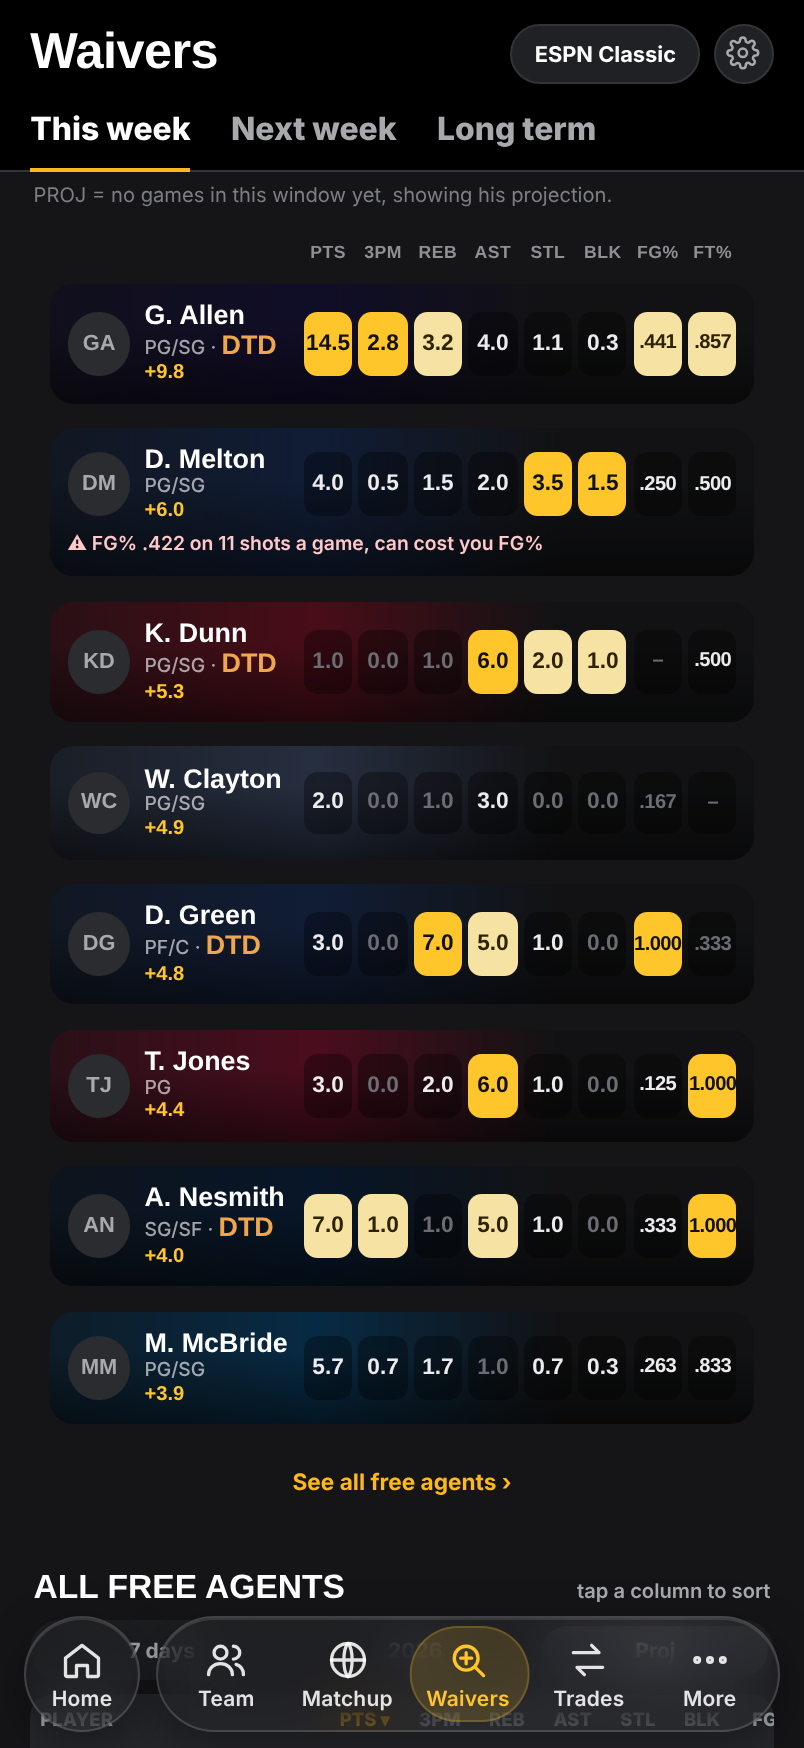
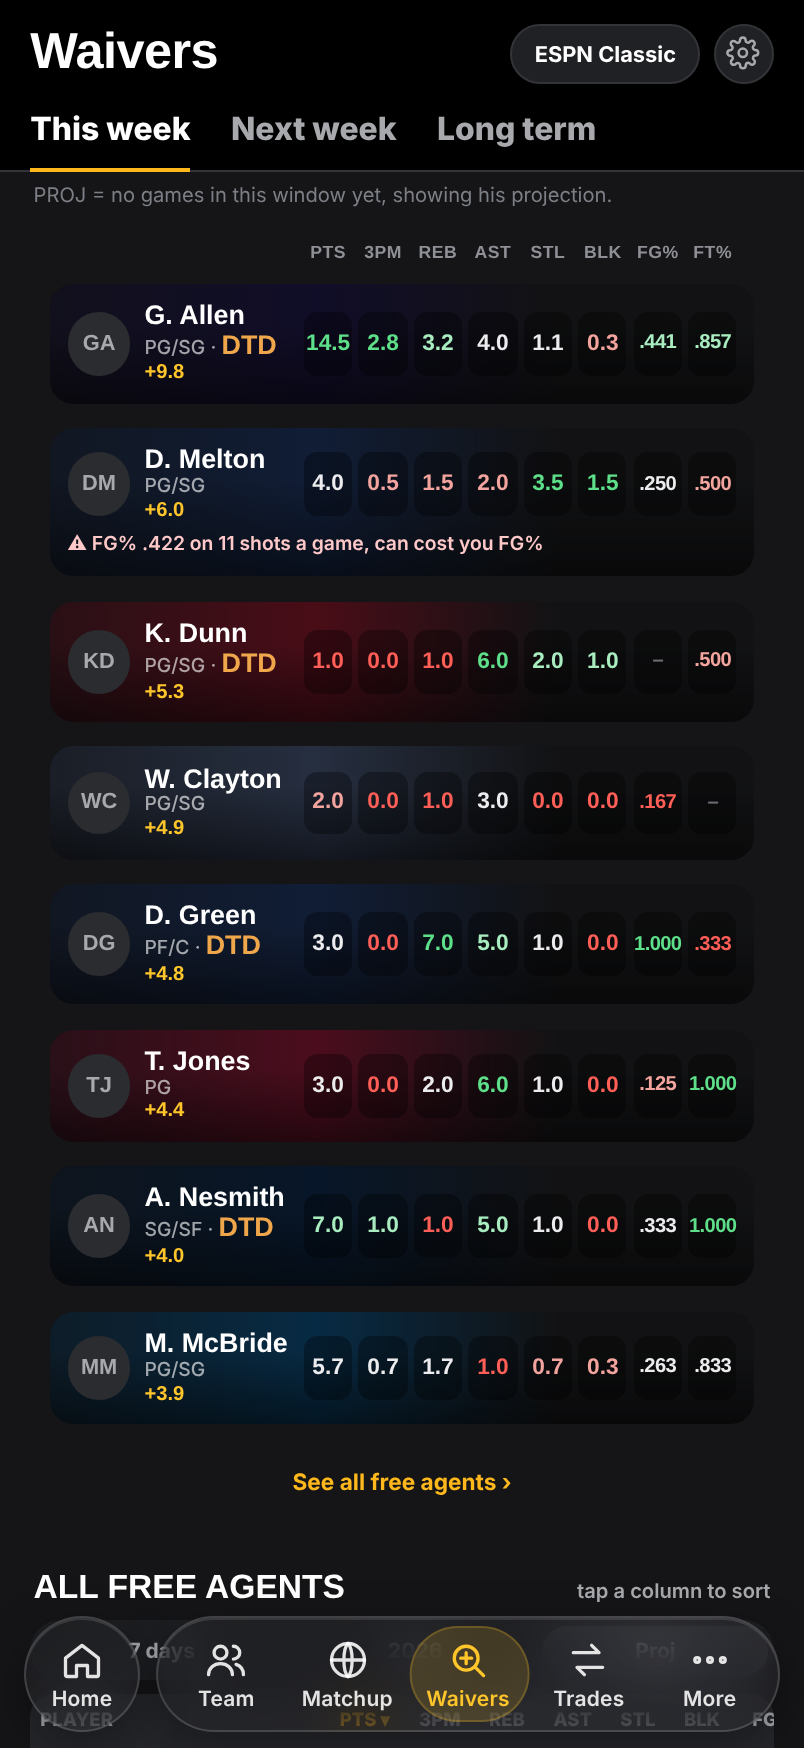
One-time sign-in screen (email + password), remembered on the device
Claude-Session: https://claude.ai/code/session_01Bze7554zYTgci3mfzKEDgc

diff --git a/index.html b/index.html
@@ -18,6 +18,34 @@
 </style>
 <div id="fpsplash"><div class="fpw"><div class="fps"><img src="shield.png" alt=""></div><div class="fpt">FANTASY <b>PLUS</b></div><div class="fpbar"><i></i></div></div></div>
 <script>(function(){var s=document.getElementById("fpsplash"),t0=Date.now();function done(){var w=Math.max(0,1650-(Date.now()-t0));setTimeout(function(){s.classList.add("out");setTimeout(function(){s.remove()},500)},w)}if(document.readyState==="complete")done();else addEventListener("load",done);setTimeout(function(){if(s.parentNode)s.classList.add("out")},4000)})();</script>
+<style>
+#fpgate{position:fixed;inset:0;z-index:99990;background:#000;display:flex;flex-direction:column;align-items:center;justify-content:center;padding:24px 28px calc(24px + env(safe-area-inset-bottom,0px));font-family:-apple-system,system-ui,sans-serif;color:#fff}
+#fpgate[hidden]{display:none!important}
+#fpgate img{width:96px;height:auto;margin-bottom:14px;filter:drop-shadow(0 0 14px rgba(252,209,44,.3))}
+#fpgate h1{font:700 22px/1 Poppins,-apple-system,system-ui,sans-serif;letter-spacing:3px;margin:0 0 6px}
+#fpgate h1 b{color:#fcd12c}
+#fpgate p{color:#8e9096;font-size:14px;margin:0 0 26px;text-align:center}
+#fpgate form{width:100%;max-width:340px;display:flex;flex-direction:column;gap:12px}
+#fpgate label{font-size:12px;font-weight:600;color:#8e9096;letter-spacing:.04em;text-transform:uppercase;margin-bottom:-6px}
+#fpgate input{font-size:17px;padding:14px 14px;border-radius:12px;border:1px solid #2f3035;background:#16161a;color:#fff;outline:none;-webkit-appearance:none}
+#fpgate input:focus{border-color:#fcd12c}
+#fpgate button{margin-top:6px;font:700 17px -apple-system,system-ui,sans-serif;padding:15px;border:0;border-radius:12px;background:#fcd12c;color:#111;cursor:pointer}
+#fpgate .err{color:#ff6b62;font-size:14px;min-height:18px;text-align:center}
+</style>
+<div id="fpgate" hidden><img src="shield.png" alt=""><h1>FANTASY <b>PLUS</b></h1><p>ANTI-QUEMO · ACL Enayileri</p>
+<form id="fpgf" autocomplete="on"><label for="fpge">Email</label><input id="fpge" type="email" inputmode="email" autocomplete="username" autocapitalize="off" placeholder="you@email.com" required>
+<label for="fpgp">Password</label><input id="fpgp" type="password" autocomplete="current-password" placeholder="Password" required>
+<div class="err" id="fpgx"></div><button type="submit">Sign in</button></form></div>
[1 lines of base64/hex data omitted]
+if(location.port)return;
+var ok=false;try{var a=JSON.parse(localStorage.getItem(K)||"null");ok=!!(a&&a.h===H)}catch(e){}
+if(ok)return;g.hidden=false;
+function sha(t){if(window.crypto&&crypto.subtle){return crypto.subtle.digest("SHA-256",new TextEncoder().encode(t)).then(function(b){return Array.from(new Uint8Array(b)).map(function(x){return x.toString(16).padStart(2,"0")}).join("")})}return Promise.resolve(t==="fp:MERT"?H:"")}
+document.getElementById("fpgf").addEventListener("submit",function(e){e.preventDefault();var em=document.getElementById("fpge").value.trim(),pw=document.getElementById("fpgp").value.trim().toUpperCase(),x=document.getElementById("fpgx");
+if(!/^[^@\s]+@[^@\s]+\.[^@\s]+$/.test(em)){x.textContent="Enter a valid email.";return}
+sha("fp:"+pw).then(function(h){if(h!==H){x.textContent="Wrong password. Try again.";document.getElementById("fpgp").value="";return}
+try{localStorage.setItem(K,JSON.stringify({h:H,email:em,t:Date.now()}))}catch(e){}
+g.style.transition="opacity .35s";g.style.opacity="0";setTimeout(function(){g.hidden=true},360)})})})();</script>
 
 <script>window.HDP=function(id){return location.port?"/img/p/"+id+".png":"https://a.espncdn.com/combiner/i?img=/i/headshots/nba/players/full/"+id+".png&w=260&h=190"};window.HDT=function(k){return location.port?"/img/t/"+k+".png":"https://a.espncdn.com/i/teamlogos/nba/500/"+k+".png"};</script><link rel="stylesheet" href="https://fonts.googleapis.com/css2?family=Roboto+Condensed:wght@500;700;800&display=swap"><script>window.HD_SKIN="espn"</script>
 <link rel="stylesheet" href="https://fonts.googleapis.com/css2?family=Archivo:wght@700;800;900&display=swap">

diff --git a/classic.html b/classic.html
@@ -18,6 +18,34 @@
 </style>
 <div id="fpsplash"><div class="fpw"><div class="fps"><img src="shield.png" alt=""></div><div class="fpt">FANTASY <b>PLUS</b></div><div class="fpbar"><i></i></div></div></div>
 <script>(function(){var s=document.getElementById("fpsplash"),t0=Date.now();function done(){var w=Math.max(0,1650-(Date.now()-t0));setTimeout(function(){s.classList.add("out");setTimeout(function(){s.remove()},500)},w)}if(document.readyState==="complete")done();else addEventListener("load",done);setTimeout(function(){if(s.parentNode)s.classList.add("out")},4000)})();</script>
+<style>
+#fpgate{position:fixed;inset:0;z-index:99990;background:#000;display:flex;flex-direction:column;align-items:center;justify-content:center;padding:24px 28px calc(24px + env(safe-area-inset-bottom,0px));font-family:-apple-system,system-ui,sans-serif;color:#fff}
+#fpgate[hidden]{display:none!important}
+#fpgate img{width:96px;height:auto;margin-bottom:14px;filter:drop-shadow(0 0 14px rgba(252,209,44,.3))}
+#fpgate h1{font:700 22px/1 Poppins,-apple-system,system-ui,sans-serif;letter-spacing:3px;margin:0 0 6px}
+#fpgate h1 b{color:#fcd12c}
+#fpgate p{color:#8e9096;font-size:14px;margin:0 0 26px;text-align:center}
+#fpgate form{width:100%;max-width:340px;display:flex;flex-direction:column;gap:12px}
+#fpgate label{font-size:12px;font-weight:600;color:#8e9096;letter-spacing:.04em;text-transform:uppercase;margin-bottom:-6px}
+#fpgate input{font-size:17px;padding:14px 14px;border-radius:12px;border:1px solid #2f3035;background:#16161a;color:#fff;outline:none;-webkit-appearance:none}
+#fpgate input:focus{border-color:#fcd12c}
+#fpgate button{margin-top:6px;font:700 17px -apple-system,system-ui,sans-serif;padding:15px;border:0;border-radius:12px;background:#fcd12c;color:#111;cursor:pointer}
+#fpgate .err{color:#ff6b62;font-size:14px;min-height:18px;text-align:center}
+</style>
+<div id="fpgate" hidden><img src="shield.png" alt=""><h1>FANTASY <b>PLUS</b></h1><p>ANTI-QUEMO · ACL Enayileri</p>
+<form id="fpgf" autocomplete="on"><label for="fpge">Email</label><input id="fpge" type="email" inputmode="email" autocomplete="username" autocapitalize="off" placeholder="you@email.com" required>
+<label for="fpgp">Password</label><input id="fpgp" type="password" autocomplete="current-password" placeholder="Password" required>
+<div class="err" id="fpgx"></div><button type="submit">Sign in</button></form></div>
[1 lines of base64/hex data omitted]
+if(location.port)return;
+var ok=false;try{var a=JSON.parse(localStorage.getItem(K)||"null");ok=!!(a&&a.h===H)}catch(e){}
+if(ok)return;g.hidden=false;
+function sha(t){if(window.crypto&&crypto.subtle){return crypto.subtle.digest("SHA-256",new TextEncoder().encode(t)).then(function(b){return Array.from(new Uint8Array(b)).map(function(x){return x.toString(16).padStart(2,"0")}).join("")})}return Promise.resolve(t==="fp:MERT"?H:"")}
+document.getElementById("fpgf").addEventListener("submit",function(e){e.preventDefault();var em=document.getElementById("fpge").value.trim(),pw=document.getElementById("fpgp").value.trim().toUpperCase(),x=document.getElementById("fpgx");
+if(!/^[^@\s]+@[^@\s]+\.[^@\s]+$/.test(em)){x.textContent="Enter a valid email.";return}
+sha("fp:"+pw).then(function(h){if(h!==H){x.textContent="Wrong password. Try again.";document.getElementById("fpgp").value="";return}
+try{localStorage.setItem(K,JSON.stringify({h:H,email:em,t:Date.now()}))}catch(e){}
+g.style.transition="opacity .35s";g.style.opacity="0";setTimeout(function(){g.hidden=true},360)})})})();</script>
 
 <script>window.HDP=function(id){return location.port?"/img/p/"+id+".png":"https://a.espncdn.com/combiner/i?img=/i/headshots/nba/players/full/"+id+".png&w=260&h=190"};window.HDT=function(k){return location.port?"/img/t/"+k+".png":"https://a.espncdn.com/i/teamlogos/nba/500/"+k+".png"};</script>
 <link rel="stylesheet" href="https://fonts.googleapis.com/css2?family=Archivo:wght@700;800;900&display=swap">
